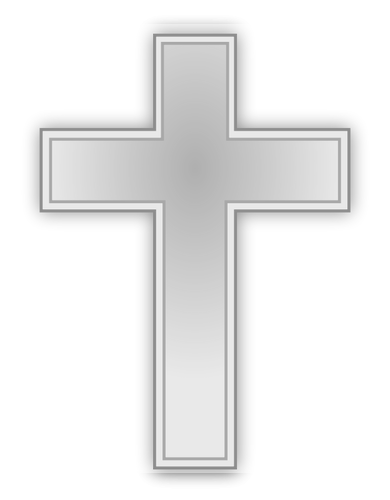
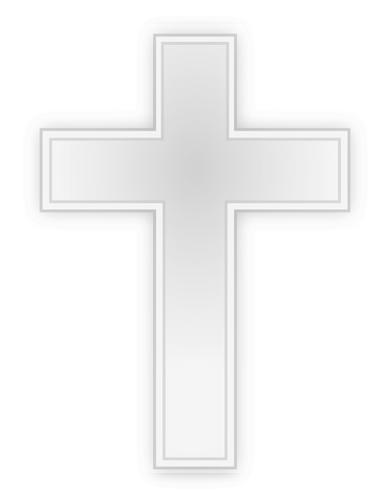
Add files via upload
Optimized for Windows computers.
Changed font.
Made background lighter, to see the verses easier.

Changed region(s): [[0.0923, 0.06, 0.9231, 0.96]]

diff --git a/verse_day.java b/verse_day.java
@@ -44,13 +44,14 @@ public class verse_day extends Application{
       ImageView iv = new ImageView();
       iv.setImage(background);
       Button exitb = new Button("Go forth");
-      exitb.setLayoutX(200);
+      exitb.setLayoutX(165);
       exitb.setLayoutY(400);
 
-      iv.setLayoutX(42);
+      
       Pane window = new Pane();
-      Text verseShow = new Text(75, 200, theVerse);
-      verseShow.setFont(Font.font("baskerville"));
+      Text verseShow = new Text(45, 155, theVerse);
+      verseShow.setFont(Font.font("Baskerville Old Face", 20));
+      
       //exit button. Prettier than just having nothing
       exitb.setOnAction(e -> {System.exit(0);
       }
@@ -61,7 +62,7 @@ public class verse_day extends Application{
       window.getChildren().add(exitb);
 
       //window.getChildren().add(myBackground);
-      Scene scene = new Scene(window, 500, 500);
+      Scene scene = new Scene(window, 400, 500);
       primaryStage.setTitle("Bible Verse Of The Day");
       primaryStage.setScene(scene);
       primaryStage.show();
@@ -129,27 +130,27 @@ public class verse_day extends Application{
       switch(theVerse){
 
         case 1:
-          verse = "In the beginning, God made the Heavens and the Earth. \nGenesis 1:1 (KJV)";
+          verse = "In the beginning, God made the Heavens \nand the Earth. \nGenesis 1:1 (KJV)";
           break;
 
         case 2:
-          verse = "For unto us a child is born, unto us a son is given.\nAnd the weight of the world shall be on His shoulder. \nAnd His name shall be called Wonderful, Counsellor, \nthe Almighty God, Everlasting Father, Prince of Peace. \nIsaiah 9:6 (KJV)";
+          verse = "For unto us a child is born, unto us \na son is given.And the weight of\n the world shall be on His shoulder. \nAnd His name shall be called \nWonderful, Counsellor, the Almighty God,\nEverlasting Father, Prince of Peace. \nIsaiah 9:6 (KJV)";
         break;
 
         case 3:
-          verse = "Then Peter said unto them, Repent, and be baptized \nevery one of you in the name of Jesus Christ for the \nremission of sins, and ye shall receive the gift of the Holy Ghost. \nActs 2:38 (KJV)";
+          verse = "Then Peter said unto them, Repent, \nand be baptized every one of you in \nthe name of Jesus Christ for the \nremission of sins, and ye shall receive\n the gift of the Holy Ghost. \nActs 2:38 (KJV)";
         break;
 
         case 4:
-          verse = "For God so loved the world, that he gave his only begotten Son, \nthat whosoever believeth in him should not perish, \nbut have everlasting life. \nJohn 3:16 (KJV)";
+          verse = "For God so loved the world, that he gave \nHis only begotten Son, that whosoever \nbelieveth in him should not perish, \nbut have everlasting life. \nJohn 3:16 (KJV)";
         break;
 
         case 5:
-          verse = "Let no man despise thy youth; but be thou an example \nof the believers, in word, in conversation, in charity, \nin spirit, in faith, in purity. \n1 Timothy 4:12 (KJV)";
+          verse = "Let no man despise thy youth;\nbut be thou an example of the believers, \nin word, in conversation, in charity, \nin spirit, in faith, in purity. \n1 Timothy 4:12 (KJV)";
         break;
 
         case 6:
-          verse = "For I know the thoughts that I think toward you, \nsaith the LORD, thoughts of peace, and not of evil, \nto give you an expected end. \nJeremiah 29:11 (KJV)";
+          verse = "For I know the thoughts that I think\n toward you, saith the LORD, \nthoughts of peace, and not of evil, \nto give you an expected end. \nJeremiah 29:11 (KJV)";
         break;
 
         case 7:
@@ -165,27 +166,27 @@ public class verse_day extends Application{
         break;
 
         case 10:
-          verse = "But God commendeth his love toward us,\nin that, while we were yet sinners, Christ died for us.\nRomans 5:8 (KJV)";
+          verse = "But God commendeth his love toward us,\nin that, while we were yet sinners, \nChrist died for us.\nRomans 5:8 (KJV)";
         break;
 
         case 11:
-          verse = "For the wages of sin is death;\n but the gift of God is eternal life through Jesus Christ our Lord.\n Romans 6:23 (KJV)";
+          verse = "For the wages of sin is death;\n but the gift of God is eternal life \nthrough Jesus Christ our Lord.\n Romans 6:23 (KJV)";
         break;
 
         case 12:
-          verse = "A good name is rather to be chosen than great riches, \nand loving favour rather than silver and gold. \nThe rich and poor meet together: \nthe Lord is the maker of them all. \nProverbs 22:1-2 (KJV)";
+          verse = "A good name is rather to be chosen than \ngreat riches, and loving favour rather than \nsilver and gold. \nThe rich and poor meet together: \nthe Lord is the maker of them all. \nProverbs 22:1-2 (KJV)";
         break;
 
         case 13:
-          verse = "Pleasant words are as an honeycomb, sweet to the soul, \nand health to the bones. \nProverbs 16:24 (KJV)";
+          verse = "Pleasant words are as an honeycomb, \nsweet to the soul, and health to the bones. \nProverbs 16:24 (KJV)";
         break;
 
         case 14:
-          verse = "Be not forgetful to entertain strangers: \nfor thereby some have entertained angels unawares.\nHebrews 13:2 (KJV)";
+          verse = "Be not forgetful to entertain strangers: \nfor thereby some have entertained \nangels unawares.\nHebrews 13:2 (KJV)";
         break;
 
         case 15:
-          verse = "For by grace are ye saved through faith;\n and that not of yourselves: it is the gift of God \nEphesians 2:8 (KJV)";
+          verse = "For by grace are ye saved through faith;\n and that not of yourselves: it is the gift of \nGod \nEphesians 2:8 (KJV)";
         break;
 
         case 16:
